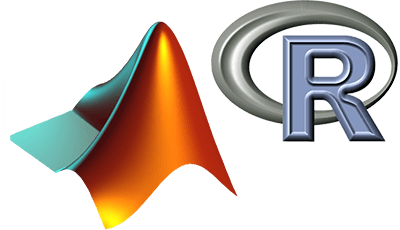
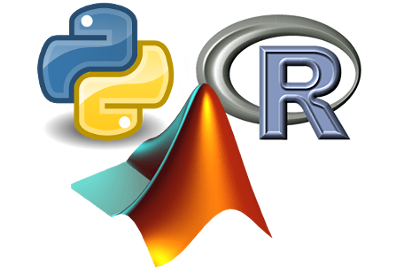
added an tem about the 3D visualization to the tour. Added Python + some other wording changes.

diff --git a/tour-development.php b/tour-development.php
@@ -37,7 +37,7 @@ editor for networks and topology, a smart configuration editor, and much more.</
 
 <img class="pic right rounded" style="margin-top: 12px;" width="200" src="images/tour/tour-development-debug.png" alt=""/>
 <h1>The integrated debugging environment helps you identify problems quickly</h1>
-<p class="lefttext">The OMNEST graphical simulation runtime front-end combines well with the C++
+<p class="lefttext">The OMNEST graphical simulation runtime user interface combines well with the C++
 debugger to form an integrated environment. You can easily switch
 between high-level (simulation) and low-level (C++) debugging,
 allowing you to track down problems efficiently.</p>
@@ -50,6 +50,15 @@ interactive sequence chart in the OMNEST IDE. The chart includes
 events, messages sent between components, C++ method calls across
 components, etc. This tool can be an invaluable help in tracking down
 model errors, and in showing off and documenting model operation.</p>
+<div class="separator"></div>
+
+<img class="pic right rounded" style="margin-top: 10px;" width="200" src="images/tour/tour-development-3d.png" alt=""/>
+<h1>Impress your customers with 3D visualization</h1>
+<p class="lefttext">The OMNEST runtime user interface allows you to
+build 3D animations for your simulation model employing the widely used OpenSceneGraph library.
+Maps, terrain, buildings, vehicles, signals, annotations and many other features
+may be used to enrich the visualization of your simulation.
+</p>
 <div class="separator"></div>
 
 <?php print_next_tourstep_links(__FILE__); ?>

diff --git a/tour-analysis.php b/tour-analysis.php
@@ -50,16 +50,11 @@ various formats, ready for inclusion into your reports.</p>
 <div class="separator"></div>
 
 <img class="pic right rounded" style="margin-top: 12px; margin-right: 10px;" width="200" src="images/tour/tour-analysis-integration.png" alt=""/>
-<h1>Integration with industry standard analysis tools allows you get the best of all</h1>
-<p class="lefttext">You can harness the power of your favourite statistics program (Matlab, GNU R and others)
-for processing OMNEST simulation results. We use open file formats,
-and provide export/import functions and extension packages to help you make this work.</p>
-<!--
-<p>Open and easy-to-parse output file formats allow you to import simulation results
-into your favourite statistics program, such as Matlab, R or Python packages,
-for further analysis. OMNEST provides tools to facilitate this process,
-such as CSV export and an R package to directly read result files into R.</p>
--->
+<h1>Integration with industry standard analysis tools allows more freedom</h1>
+<p class="lefttext">You can harness the power of your favourite statistics package (Matlab, Python/SciPy/Pandas,
+GNU R and others) for detailed evaluation of your simulation results. OMNEST records results in
+open file formats, and provides export/import functions and extension packages to help you process
+them in the tool of your choice.</p>
 <div class="separator"></div>
 
 <?php print_next_tourstep_links(__FILE__); ?>

diff --git a/common/menu_inc.php b/common/menu_inc.php
@@ -7,7 +7,7 @@ $touritems = array(
     array("text"=>"Benefit from Existing Models", "link"=>"tour-models.php"),
     array("text"=>"Develop Models Easily", "link"=>"tour-development.php"),
     array("text"=>"High-Performance Simulation", "link"=>"tour-simulation.php"),
-    array("text"=>"Make Right Design Decisions", "link"=>"tour-analysis.php"),
+    array("text"=>"Evaluate Your Model", "link"=>"tour-analysis.php"),
     array("text"=>"OMNEST Integrates Well", "link"=>"tour-integrates.php"),
 );
 
